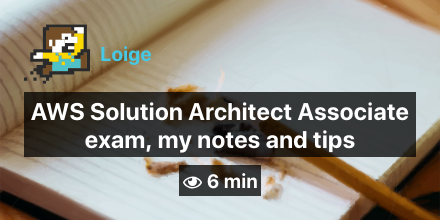
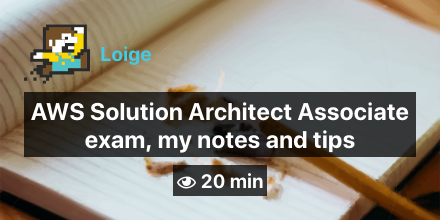
Fixed image preview for last post and added some thanks

Changed region(s): [[0.3841, 0.7364, 0.6205, 0.9]]

diff --git a/content/posts/2018-10-14_aws-solution-architect-associate-exam-notes-tips/index.md b/content/posts/2018-10-14_aws-solution-architect-associate-exam-notes-tips/index.md
@@ -414,3 +414,5 @@ Simple Workflow Service, allows to define and run background workflow composed b
 This is all I have for you. Again this is not comprehensive (E.g. I didn't have notes for services like Lambda or SNS), so please don't rely exclusively on this (and if you do don't hold me responsible 😜).
 
 At this point let me just wish you "Good luck" and let me know how it goes.
+
+A huge thanks goes to [Padraig O'Brien](https://twitter.com/Podgeypoos79) and [Vectra.ai](https://vectra.ai) for supporting this achievement! 🙏
